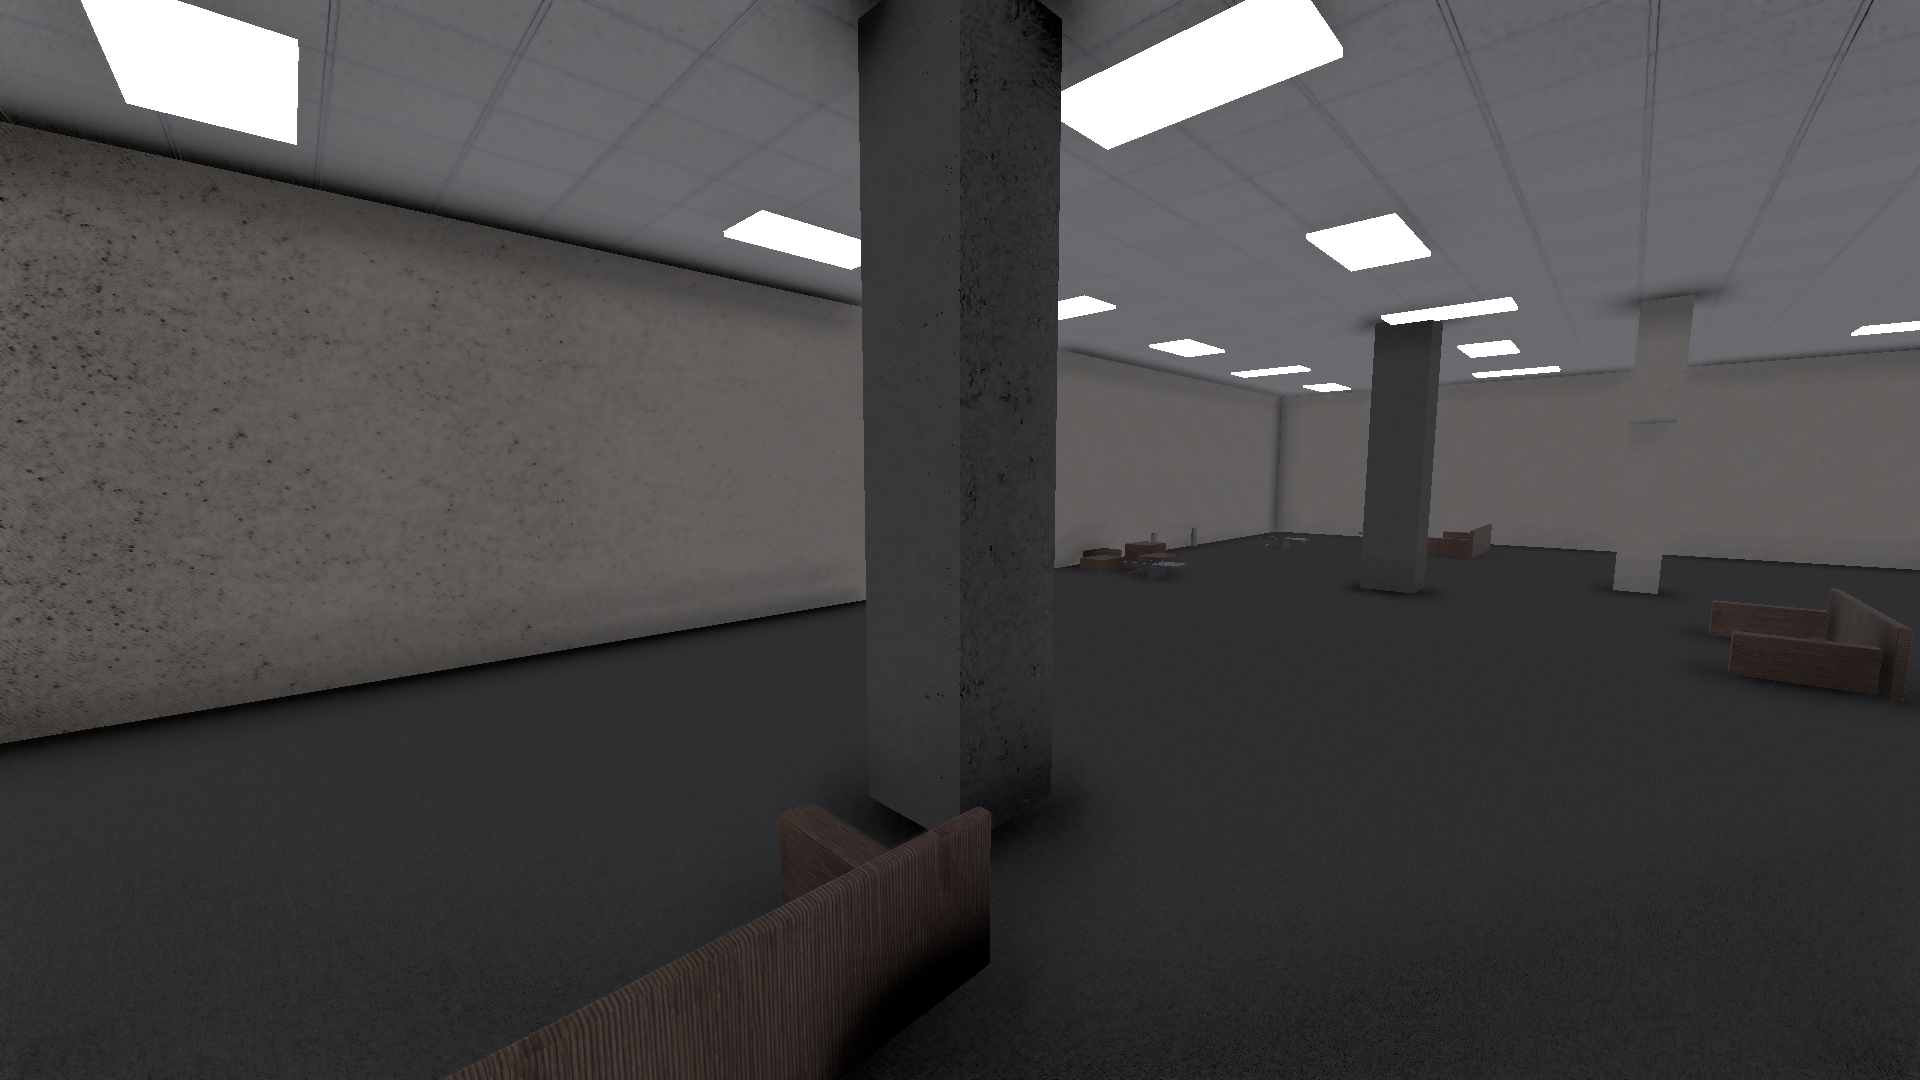
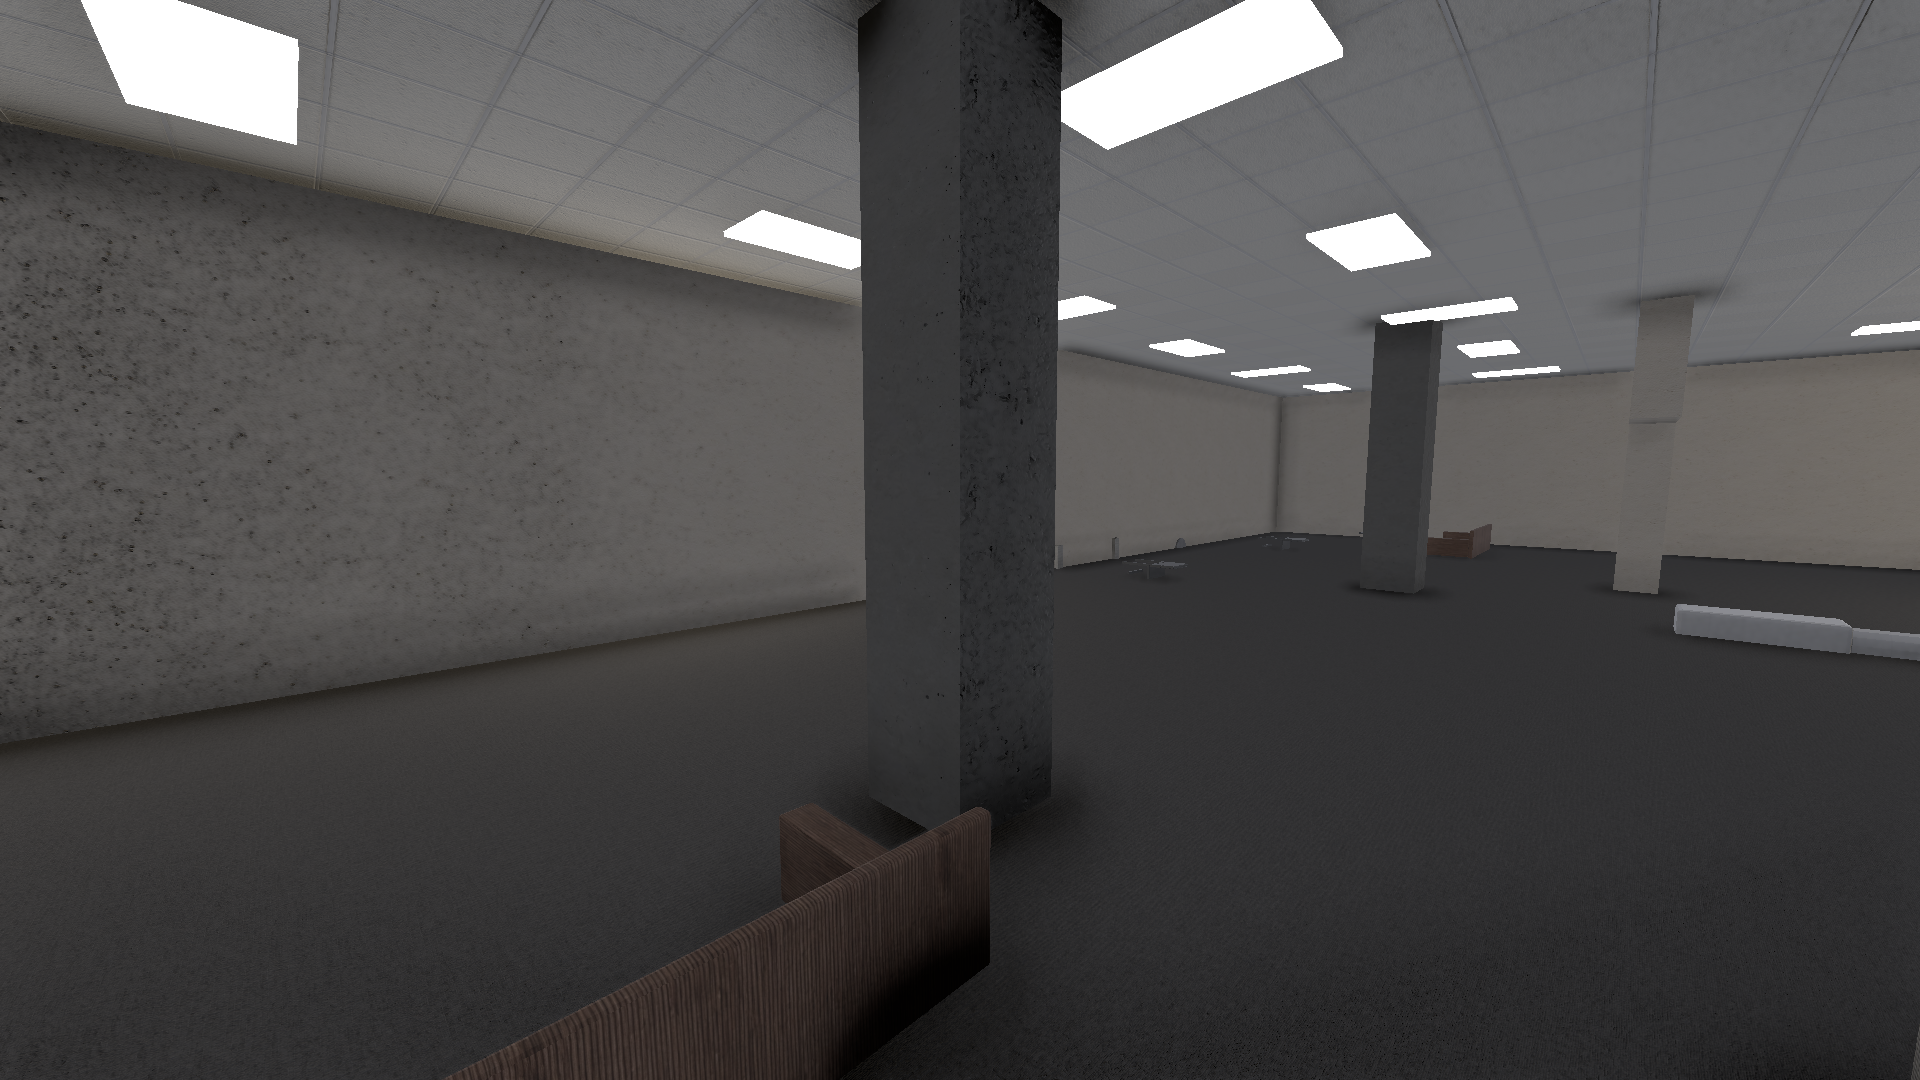
标识: 牌按墙心线挂，修 R9 场景出图整块埋进墙里
房间墙砌在 rect 经 WallInset 外扩后的墙线上，标识却按 rect 边 + 半墙厚偏移，
差 0.2m，plate 整块落进 0.4m 厚的墙盒里，场景图里墙上看不到牌子。

- SignageGenerator.PlaceOnRect/TrySide 增加 wallInset：rooms 传 plan.Spec.WallInset，
  stairs/core 传 0；挂点 = 墙心线 + 半墙厚 + WallFaceGap(2cm)，门洞候选只沿用沿墙坐标
- FloorGeometry.WallBodyThickness 改 public 供标识计算
- 回归换成 EverySign_HangsClearAndCloseToItsWall：每块牌必须正好在墙心线外
  half+2cm（不许埋、也不许离墙漂移）
- M1FloorScene.Capture 重跑出图，docs/3d-rebuild/screenshots 更新
- EditMode 208/208 全绿（game/TestResults/editmode-20261127-signage.xml）

diff --git a/game/Assets/_Project/Scripts/LevelGen/Signage.cs b/game/Assets/_Project/Scripts/LevelGen/Signage.cs
@@ -23,18 +23,22 @@ namespace EscapeFromWork.LevelGen
     /// <summary>R9 pure placement pass: deterministic, door-safe and independent of scene objects.</summary>
     public static class SignageGenerator
     {
+        /// <summary>Gap between the plate and the wall face it hangs on.</summary>
+        public const float WallFaceGap = 0.02f;
+
         public static void Populate(FloorPlan plan)
         {
             plan.Signs.Clear();
             int displayFloor = plan.Spec.WorldFloor;
+            float roomInset = Mathf.Max(0f, plan.Spec.WallInset);
             for (int i = 0; i < plan.Stairs.Count; i++)
                 PlaceOnRect(plan, plan.Stairs[i], SignKind.Stair, "STAIRS", "Wayfinding/S_Way_Stairs",
-                    new Vector2(0.55f, 0.55f), -1, null);
+                    new Vector2(0.55f, 0.55f), -1, null, 0f);
 
             PlaceOnRect(plan, plan.Core, SignKind.Elevator, "ELEVATOR", "Elevator/S_Elevator_Hall",
-                new Vector2(0.8f, 0.4f), -1, null);
+                new Vector2(0.8f, 0.4f), -1, null, 0f);
             PlaceOnRect(plan, plan.Core, SignKind.Floor, "F" + displayFloor, "Floor/S_Floor_Plate",
-                new Vector2(0.65f, 0.65f), -1, null);
+                new Vector2(0.65f, 0.65f), -1, null, 0f);
 
             for (int i = 0; i < plan.Rooms.Count; i++)
             {
@@ -42,13 +46,13 @@ namespace EscapeFromWork.LevelGen
                 string number = (displayFloor * 100 + i + 1).ToString("0000");
                 Door? preferred = room.HasDoor ? room.Door : (Door?)null;
                 PlaceOnRect(plan, room.Rect, SignKind.Room, number, "Room/S_Room_Plate_Master",
-                    new Vector2(0.5f, 0.25f), i, preferred);
+                    new Vector2(0.5f, 0.25f), i, preferred, roomInset);
             }
 
-            PlaceEvacuation(plan, displayFloor);
+            PlaceEvacuation(plan, displayFloor, roomInset);
         }
 
-        static void PlaceEvacuation(FloorPlan plan, int displayFloor)
+        static void PlaceEvacuation(FloorPlan plan, int displayFloor, float roomInset)
         {
             var rooms = new List<int>();
             for (int i = 0; i < plan.Rooms.Count; i++) rooms.Add(i);
@@ -59,25 +63,25 @@ namespace EscapeFromWork.LevelGen
                 Room room = plan.Rooms[index];
                 Door? preferred = room.HasDoor ? room.Door : (Door?)null;
                 if (PlaceOnRect(plan, room.Rect, SignKind.Evacuation, "YOU ARE HERE · F" + displayFloor,
-                    null, new Vector2(0.9f, 0.675f), index, preferred)) return;
+                    null, new Vector2(0.9f, 0.675f), index, preferred, roomInset)) return;
             }
             // A stair/core wall is a valid fallback on an unusually fragmented floor.
             for (int i = 0; i < plan.Stairs.Count; i++)
                 if (PlaceOnRect(plan, plan.Stairs[i], SignKind.Evacuation, "YOU ARE HERE · F" + displayFloor,
-                    null, new Vector2(0.9f, 0.675f), -1, null)) return;
+                    null, new Vector2(0.9f, 0.675f), -1, null, 0f)) return;
             PlaceOnRect(plan, plan.Core, SignKind.Evacuation, "YOU ARE HERE · F" + displayFloor,
-                null, new Vector2(0.9f, 0.675f), -1, null);
+                null, new Vector2(0.9f, 0.675f), -1, null, 0f);
         }
 
         static bool PlaceOnRect(FloorPlan plan, RectF rect, SignKind kind, string text, string texture,
-            Vector2 size, int roomIndex, Door? preferred)
+            Vector2 size, int roomIndex, Door? preferred, float wallInset)
         {
             if (preferred.HasValue)
             {
                 Door door = preferred.Value;
                 Vector2 tangent = Tangent(door.Side);
                 float offset = (door.Width + size.x) * 0.5f + 0.3f;
-                if (TrySide(plan, rect, door.Side, kind, text, texture, size, roomIndex,
+                if (TrySide(plan, rect, door.Side, kind, text, texture, size, roomIndex, wallInset,
                     door.Center + tangent * offset, door.Center - tangent * offset)) return true;
             }
 
@@ -87,7 +91,7 @@ namespace EscapeFromWork.LevelGen
                 DoorSide side = (DoorSide)(((int)first + n) % 4);
                 float length = side == DoorSide.North || side == DoorSide.South ? rect.W : rect.H;
                 if (length < size.x + 0.3f) continue;
-                if (TrySide(plan, rect, side, kind, text, texture, size, roomIndex,
+                if (TrySide(plan, rect, side, kind, text, texture, size, roomIndex, wallInset,
                     Along(rect, side, 0.2f), Along(rect, side, 0.35f), Along(rect, side, 0.5f),
                     Along(rect, side, 0.65f), Along(rect, side, 0.8f))) return true;
             }
@@ -103,7 +107,7 @@ namespace EscapeFromWork.LevelGen
         }
 
         static bool TrySide(FloorPlan plan, RectF rect, DoorSide side, SignKind kind, string text, string texture,
-            Vector2 size, int roomIndex, params Vector2[] candidates)
+            Vector2 size, int roomIndex, float wallInset, params Vector2[] candidates)
         {
             Vector2 normal = Normal(side);
             Vector2 tangent = Tangent(side);
@@ -114,9 +118,20 @@ namespace EscapeFromWork.LevelGen
                 float max = side == DoorSide.North || side == DoorSide.South ? rect.XMax : rect.YMax;
                 float value = side == DoorSide.North || side == DoorSide.South ? wall.x : wall.y;
                 if (value < min + size.x * 0.5f + 0.12f || value > max - size.x * 0.5f - 0.12f) continue;
-                Vector2 center = wall + normal * 0.025f;
+                // The rect edge is the walkable boundary, not the wall: room walls are built on the
+                // leaf edge (rect inflated by WallInset), so the plate must clear that centreline.
+                // Door-derived candidates keep their along-wall position but take the edge line.
+                Vector2 mount;
+                if (side == DoorSide.South) mount = new Vector2(wall.x, rect.Y);
+                else if (side == DoorSide.North) mount = new Vector2(wall.x, rect.YMax);
+                else if (side == DoorSide.West) mount = new Vector2(rect.X, wall.y);
+                else mount = new Vector2(rect.XMax, wall.y);
+                Vector2 centreline = mount + normal * wallInset;
+                float wallHalf = FloorGeometry.WallBodyThickness(plan) * 0.5f;
+                Vector2 center = centreline + normal * (wallHalf + WallFaceGap);
+                Vector2 footprintCenter = mount + normal * 0.025f;
                 Vector2 footprintSize = Mathf.Abs(tangent.x) > 0.5f ? new Vector2(size.x, 0.05f) : new Vector2(0.05f, size.x);
-                RectF footprint = new RectF(center.x - footprintSize.x * 0.5f, center.y - footprintSize.y * 0.5f,
+                RectF footprint = new RectF(footprintCenter.x - footprintSize.x * 0.5f, footprintCenter.y - footprintSize.y * 0.5f,
                     footprintSize.x, footprintSize.y);
                 if (!ClearOfDoors(plan, footprint)) continue;
                 bool overlapsSign = false;

diff --git a/game/Assets/_Project/Scripts/LevelGen/FloorGeometry.cs b/game/Assets/_Project/Scripts/LevelGen/FloorGeometry.cs
@@ -798,7 +798,8 @@ namespace EscapeFromWork.LevelGen
             }
         }
 
-        static float WallBodyThickness(FloorPlan plan)
+        /// <summary>Body thickness of interior partitions; the box is centred on the wall line.</summary>
+        public static float WallBodyThickness(FloorPlan plan)
         {
             return Mathf.Max(WallThickness, plan.Spec.WallInset * 2f);
         }

diff --git a/docs/3d-rebuild/11-todo-handover.md b/docs/3d-rebuild/11-todo-handover.md
@@ -2,7 +2,7 @@
 
 > 用途：给下一个接手的人/模型一份**待办总表**。仓库现状、已完成项、血泪教训、资源清单见 [07-handoff.md](07-handoff.md)；本文件只回答：**接下来做什么、卡在哪、怎么验收**。
 >
-> 状态快照：`main` @ `a9d20d5`（R9/R10/R11 已提交，工作区干净）；EditMode **207/207 已本机复跑验证**（`game/TestResults/t1-t13-r9-full-fix4-20261127.xml`，见 §10.1）。 2026-11-27 三轮共 29 项对局结构已拍板（06 §8.1 / §8.2 / §8.4）。
+> 状态快照：`main` @ 本会话最新提交（2026-11-27 R9 场景出图修复，见 §10.1）；EditMode **208/208 已本机复跑验证**（`game/TestResults/editmode-20261127-signage.xml`，见 §10.1）。 2026-11-27 三轮共 29 项对局结构已拍板（06 §8.1 / §8.2 / §8.4）。
 
 ---
 
@@ -22,7 +22,7 @@
 | # | 任务 | 依赖 | 等拍板 | 主要落点 | 验收 | 量级 |
 |---|---|---|---|---|---|---|
 | T1 | **R10 体检器接回归**：把 06 §10 指标变成 EditMode 测试 | 无 | 否 | 新 `LevelGen/LevelAudit.cs` + `tests/EditMode/LevelAuditTests.cs` | ✅ **2026-11-27 已完成**：`LevelAudit.cs` + `LevelAuditTests.cs`；走廊 30m / 侧出口 / 死路 / 房间挂接 / 环数 / 切片视线全部进全量回归 | 已完 |
-| T2 | **R9 标识牌**：`SignageGenerator` + 场景渲染 | 无（素材已就绪） | 否 | 新 `LevelGen/Signage.cs`（或 `SignageGenerator.cs`）+ `FloorPlan.Signs` + 渲染层 | ✅ **2026-11-27 已完成**：`Signage.cs` + `SignageRenderer.cs` + `Resources/Signage/`；每层 ≥1 处 YOU ARE HERE，测试出图 `game/TestResults/r9-signage.png` 可读 | 已完 |
+| T2 | **R9 标识牌**：`SignageGenerator` + 场景渲染 | 无（素材已就绪） | 否 | 新 `LevelGen/Signage.cs`（或 `SignageGenerator.cs`）+ `FloorPlan.Signs` + 渲染层 | ✅ **2026-11-27 已完成**：`Signage.cs` + `SignageRenderer.cs` + `Resources/Signage/`；每层 ≥1 处 YOU ARE HERE，测试出图 `game/TestResults/r9-signage.png` 可读；**同日晚 `M1FloorScene.Capture` 出场景内图 `docs/3d-rebuild/screenshots/m1-floor3d-signage.png` 可读**（修掉了"牌按 rect 边偏移、被 0.4m 墙心线覆盖"的埋牌 bug） | 已完 |
 | T3 | **运行时多楼层**：`RaidPlan` 进运行时，竖向核与切层 | T1（护栏） | 否 | `FloorRuntime`/`FloorStreamingRuntime` + 新的楼层管理 | 固定 4 层同场景按真实标高叠放；2 条单层楼梯 + 中心电梯可跨层；切层后小地图换图 | 3–5 天 |
 | T4 | **MapHud 按 02 §5.5 改**：楼层条 / 拉闸房 / 撤离点门控 | T3（楼层数据） | 否 | `UI/MapHud.cs` + `FloorPlan` 数据补齐 | 进层只给本端可用数量；远层免费点到层自动标出、近层拉闸后标出并全楼广播；对端免费点不显示、对端拉闸点显示不可用；楼梯/电梯无迷雾 | 1–2 天 |
 | T5 | **材质槽接渲染**：主题材质 + 9 套未接材质 + per-room | T1 | 否 | `FloorMaterials` 扩槽 + `FloorChunkGeometry`/`FloorChunkManifest` 分槽 | 09 §5 MaterialSlotCoverage ≥14/19；机房/冷库/医疗一眼可辨 | 2–3 天 |
@@ -227,7 +227,7 @@
   -executeMethod EscapeFromWork.EditorTools.MaterialArtLibrary.BuildAll -quit
 ```
 
-- EditMode 基线：**207/207 通过**（2026-11-27 R9/R10/R11 收尾轮，结果 `game/TestResults/t1-t13-r9-full-fix4-20261127.xml`；纯测试约 18.5 分钟，本机无独显）。上一基线 148/148 见 `game/TestResults/editmode-t1-baseline-20261127.xml`。
+- EditMode 基线：**208/208 通过**（2026-11-27 R9 场景出图修复后，结果 `game/TestResults/editmode-20261127-signage.xml`；纯测试约 9 分 56 秒，本机 9800X3D/4070TiS）。上一基线 207/207 见 `game/TestResults/t1-t13-r9-full-fix4-20261127.xml`，更早 148/148 见 `game/TestResults/editmode-t1-baseline-20261127.xml`。
 - **结果判定**：XML 的 `testcasecount/result` 才是结论；Unity batch 在编辑器退出前就已写好 XML，可轮询文件出现。`-testResults` 尽量传绝对路径（相对路径会落到 `game/game/...`）。
 - 测试结果 XML 里 `testcasecount` 才是用例数（`[Test]` 特性只有 95 个，参数化 `[TestCase]` 才会到 148）。
 
@@ -251,8 +251,8 @@
 ## 11. 下次会话开场
 
 1. 先读 [07-handoff.md](07-handoff.md)（现状 / 教训 / 禁区 / 资源）→ 本文件（待办）。
-2. `git log --oneline -8` 对齐 HEAD（`a9d20d5`）；`git status` 应干净。R9/R10/R11 已在 `a9d20d5` 一次性提交（53 文件 / +4625 / −332）。
-3. 先跑 §10.1 的 EditMode 确认 **207/207** 基线，再动手。
+2. `git log --oneline -8` 对齐 HEAD（最新提交是 2026-11-27「标识: 牌按墙心线挂、别埋进墙」）；`git status` 应干净。R9/R10/R11 在 `a9d20d5` 一次性提交（53 文件 / +4625 / −332），出图修复在其后。
+3. 先跑 §10.1 的 EditMode 确认 **208/208** 基线，再动手。
 4. 下一步按 **T3（运行时多楼层）→ T4（MapHud）→ T5（材质槽）**；T7（60fps 实测）/T9（LOD+NavMesh）需要高性能机，T10（多边形化）与 T12（战斗原型）按需穿插。每完成一项在 §1 表里改状态并提交（commit message 沿用 `生成器(Rx): ...` / `文档: ...` 风格）。
 5. 06 已定稿（§8.1/§8.2/§8.4 共 29 项）；剩余待定见 06 §8.3，未定前不要改「经济数值 / 首发武器 / AI 难度分档 / Boss 战斗形式」相关实现。
 6. 本轮踩过的坑：改完 `.cs` 必须 touch（`ops_edit_file` 保留旧 mtime，Unity 会跑旧 DLL）；测试前先 `Stop-Process` 残留的 Tuanjie 进程，否则报 “Multiple Tuanjie instances cannot open the same project” 直接崩；日志常是无效 UTF8，用 PowerShell `Select-String` 取行。
